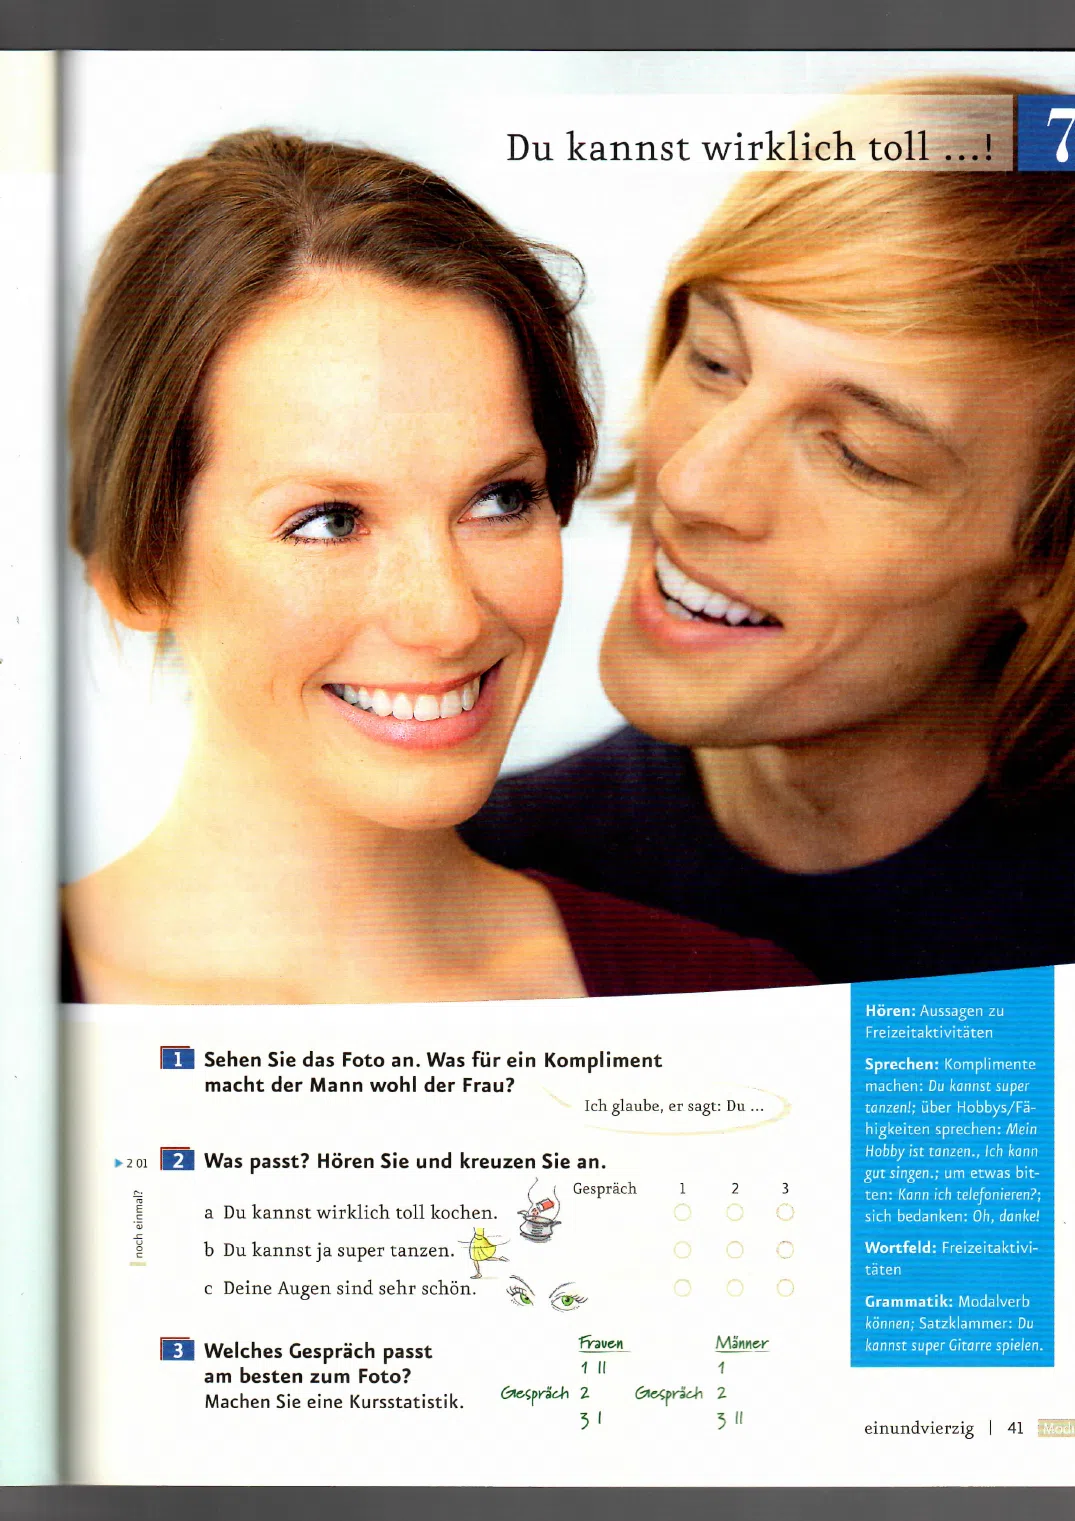
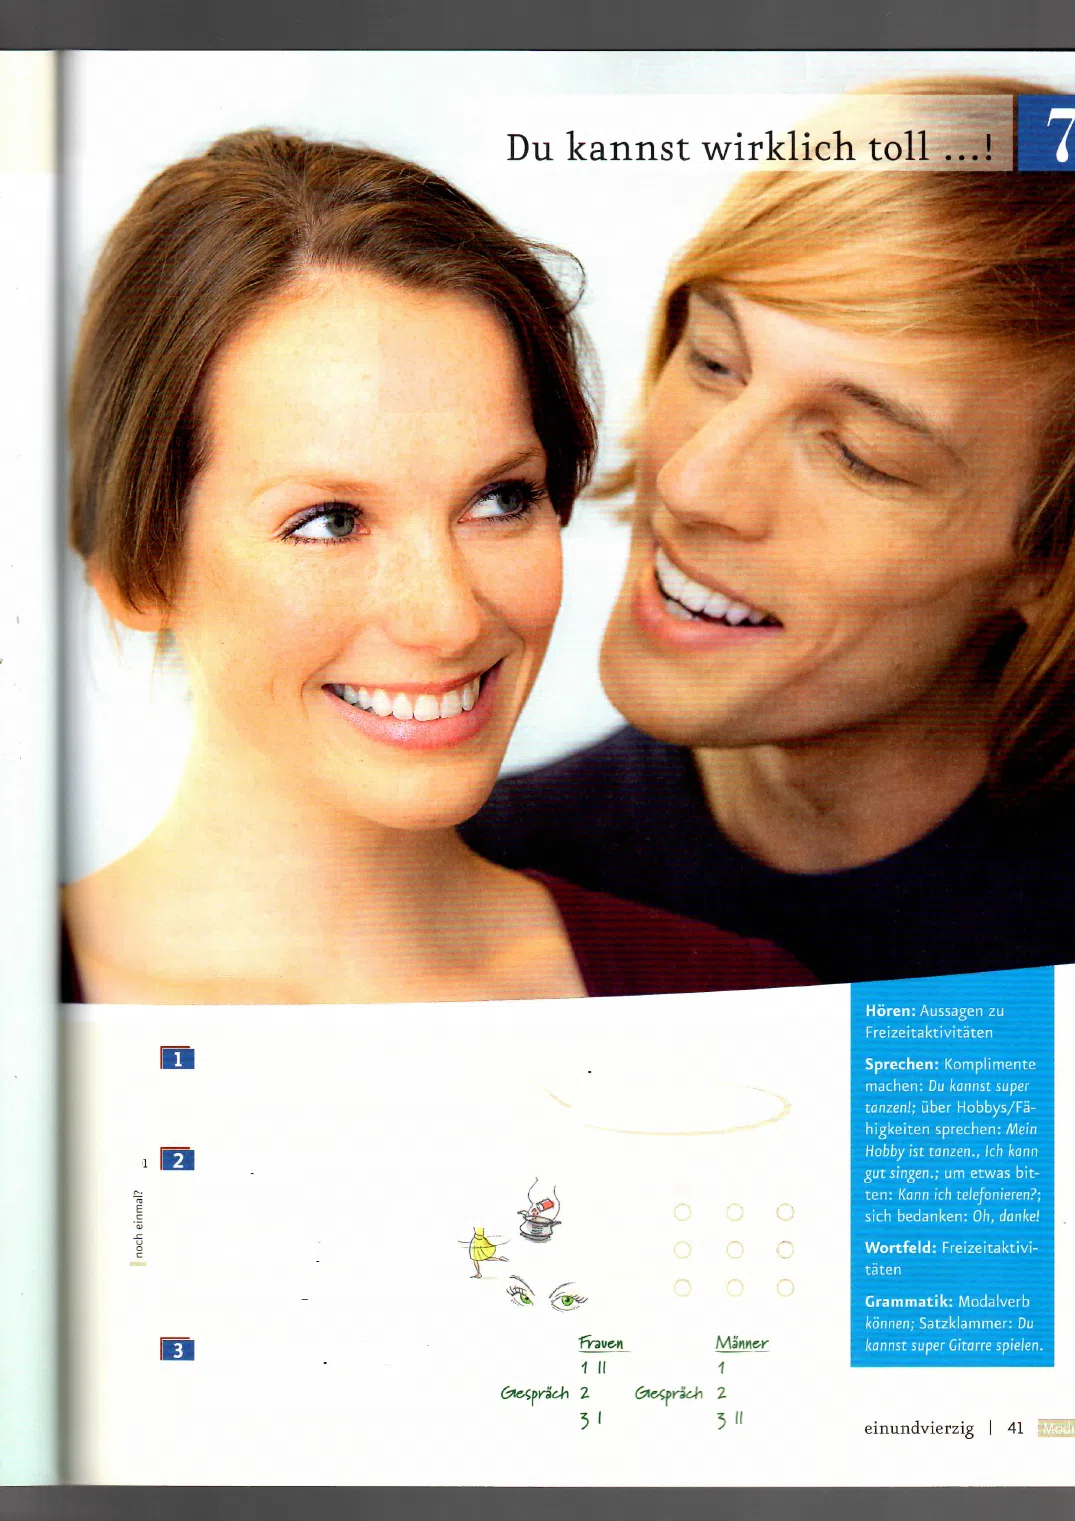
KB A1.1 p41: native text, neutral checks, audio tag removed

Changed region(s): [[0.1842, 0.6798, 0.614, 0.927], [0.5526, 0.7725, 0.5833, 0.8034]]

diff --git a/src/components/NativeKb11.tsx b/src/components/NativeKb11.tsx
@@ -28,6 +28,7 @@ function Inner({data}:{data:NativePage}){
  const key='native-kb11-'+data.page;
  const [v,setV]=useState<Record<string,string>>(()=>{try{const saved=localStorage.getItem(key);if(saved)return JSON.parse(saved);if(String(data.page)==='42'){const old=JSON.parse(localStorage.getItem('native-pilot-kb11-42')||'{}');const next={...old};['gitarre','tanzen','tennis'].forEach((name,i)=>{if(old['kompliment'+(i+1)])next['t4a-'+name]=old['kompliment'+(i+1)]});for(let i=0;i<5;i++)if(old['skala'+i])next['t6a-'+(i+1)]=old['skala'+i];return next}return {}}catch{return {}}});
  const [res,setRes]=useState<Record<string,boolean>>({});
+ const [saved,setSaved]=useState<Record<string,boolean>>({});
  const players=useRef<Record<string,HTMLAudioElement|null>>({});
  const W=data.w,H=data.h;
  const pos=(x:number,y:number,w:number,h:number):CSSProperties=>({left:x/W*100+'%',top:y/H*100+'%',width:w/W*100+'%',height:h/H*100+'%'});
@@ -64,6 +65,7 @@ function Inner({data}:{data:NativePage}){
    {String(data.page)==='31'&&<><div className="nkb31Pairing lmHideAll"><LineMatching id="t6b-colors" left={['1 ist','2 ist','3 ist','4 ist','5 ist']} right={['blau.','rot.','gelb.','grün.','braun.']} values={v} onMatch={set} leftX={588} rightX={574} leftWidth={18} rightWidth={94} ys={[645,665,685,705,725]} width={W} height={H} fontSize={14} example={[0,4]} dotR={1.5} leftDotXs={[594,594,594,594,594]} rightDotXs={[612,612,612,612,612]}/></div><div className="nkbCheck nkbCheckLm nkb31ColorCheck" style={{...pos(620,750,110,24),position:'absolute',zIndex:9}}><CheckButton onClick={()=>setRes(r=>({...r,'t6b-colors':['4','3','2','1','0'].every((a,i)=>i===0||v['t6b-colors-'+i]===a)}))}/><output>{res['t6b-colors']===undefined?'':res['t6b-colors']?'✓ Richtig!':'Noch einmal'}</output></div></>}
    <ClipMarkers book="kb-a11" page={data.page}/>
    {data.audio.map(a=><button key={a.id} data-audio-src={a.src} {...(a.task?{'data-task':a.task}:{})} className="nkbListen" style={pos(a.x,a.y,a.w,a.h)} aria-label={a.label||('Originalaudio '+a.id)} onClick={()=>play(a.id)}/>)}
+   {((data as any).neutral||[]).map((n:[string,number,number])=><div key={'n'+n[0]} className="nkbCheck nkbCheckLm" style={{left:n[1]/W*100+'%',top:n[2]/H*100+'%'}}><CheckButton onClick={()=>setSaved(s=>({...s,[n[0]]:true}))}></CheckButton><output>{saved[n[0]]?'Gespeichert':''}</output></div>)}
    {groups.map(g=><div key={g} className={"nkbCheck"+(data.compact?.includes(g)?" nkbCompact":"")} style={checkPos(g)}><CheckButton onClick={()=>grade(g)}></CheckButton><output>{data.fields.filter(f=>f.group===g&&f.answer!==undefined).every(f=>res[f.id]!==undefined)?(data.fields.filter(f=>f.group===g&&f.answer!==undefined).every(f=>res[f.id])?'✓ Richtig!':'Noch einmal'):''}</output></div>)}
   </div>
   {data.audio.length>0&&<div className="nkbAudio">{data.audio.map(a=><label key={a.id}><span>{a.label||a.id}</span><audio ref={el=>{players.current[a.id]=el}} controls preload="none" src={a.src}/></label>)}</div>}

diff --git a/src/components/native-kb11.css b/src/components/native-kb11.css
@@ -182,3 +182,7 @@
 .nkb[data-native-page="58"] .nkbCanvas input[type=radio].nkbField{--answer-cross-size:56%!important;outline-offset:-2px}
 .nkb[data-native-page="60"] .nkbCanvas input[type=checkbox].nkbField{border-radius:50%!important;border:1px solid transparent!important;--answer-cross-size:56%!important;outline-offset:-2px}
 .nkb[data-native-page="62"] .nkbCanvas input[type=radio].nkbField{--answer-cross-size:56%!important;outline-offset:-2px}
+
+.nkb[data-native-page="41"] .nkbLine{font-family:KbDroid,serif}
+.nkb[data-native-page="41"] .nkbLine:is(.nkbB,.nkbSans){font-family:KbFira,sans-serif}
+.nkb[data-native-page="41"] .nkbLine.nkbB{font-weight:500}

diff --git a/scripts/build-native-kb11.py b/scripts/build-native-kb11.py
@@ -79,7 +79,11 @@ def build(p):
         for bx in json.load(open(_of)).get('erase',[]):
             X0,Y0,X1,Y1=[int(v*S) for v in bx[:4]]
             ring=np.concatenate([work[max(0,Y0-3):Y0,X0:X1].reshape(-1,3),work[Y1:Y1+3,X0:X1].reshape(-1,3)])
-            work[Y0:Y1,X0:X1]=bx[4] if len(bx)>4 else np.median(ring,axis=0)
+            if len(bx)>4:work[Y0:Y1,X0:X1]=bx[4]
+            elif len(bx)==4 and False:pass
+            else:
+                top=work[max(0,Y0-3):Y0,X0:X1].mean(axis=0);bot=work[Y1:Y1+3,X0:X1].mean(axis=0)
+                tt=np.linspace(0,1,Y1-Y0)[:,None,None];work[Y0:Y1,X0:X1]=top[None]*(1-tt)+bot[None]*tt
     # artwork components from erased copy
     paper=np.median(work.reshape(-1,3),axis=0)
     diff=np.abs(work-paper).sum(axis=2)
@@ -189,6 +193,7 @@ def apply_overrides(r,p):
     r['fields']=list(r['fields'])+o.get('fields',[])
     r['fields']=[x for x in r['fields'] if x['id'] not in o.get('dropfields',[])]
     r['checks'].update(o.get('checks',{}))
+    if o.get('neutral'):r['neutral']=o['neutral']
     def hit(b,m):
         return all(abs(b[k]-v)<=m.get('tol',3) for k,v in m.items() if k in('x','cy','w','f'))
     for rng in o.get('sans',[]):
